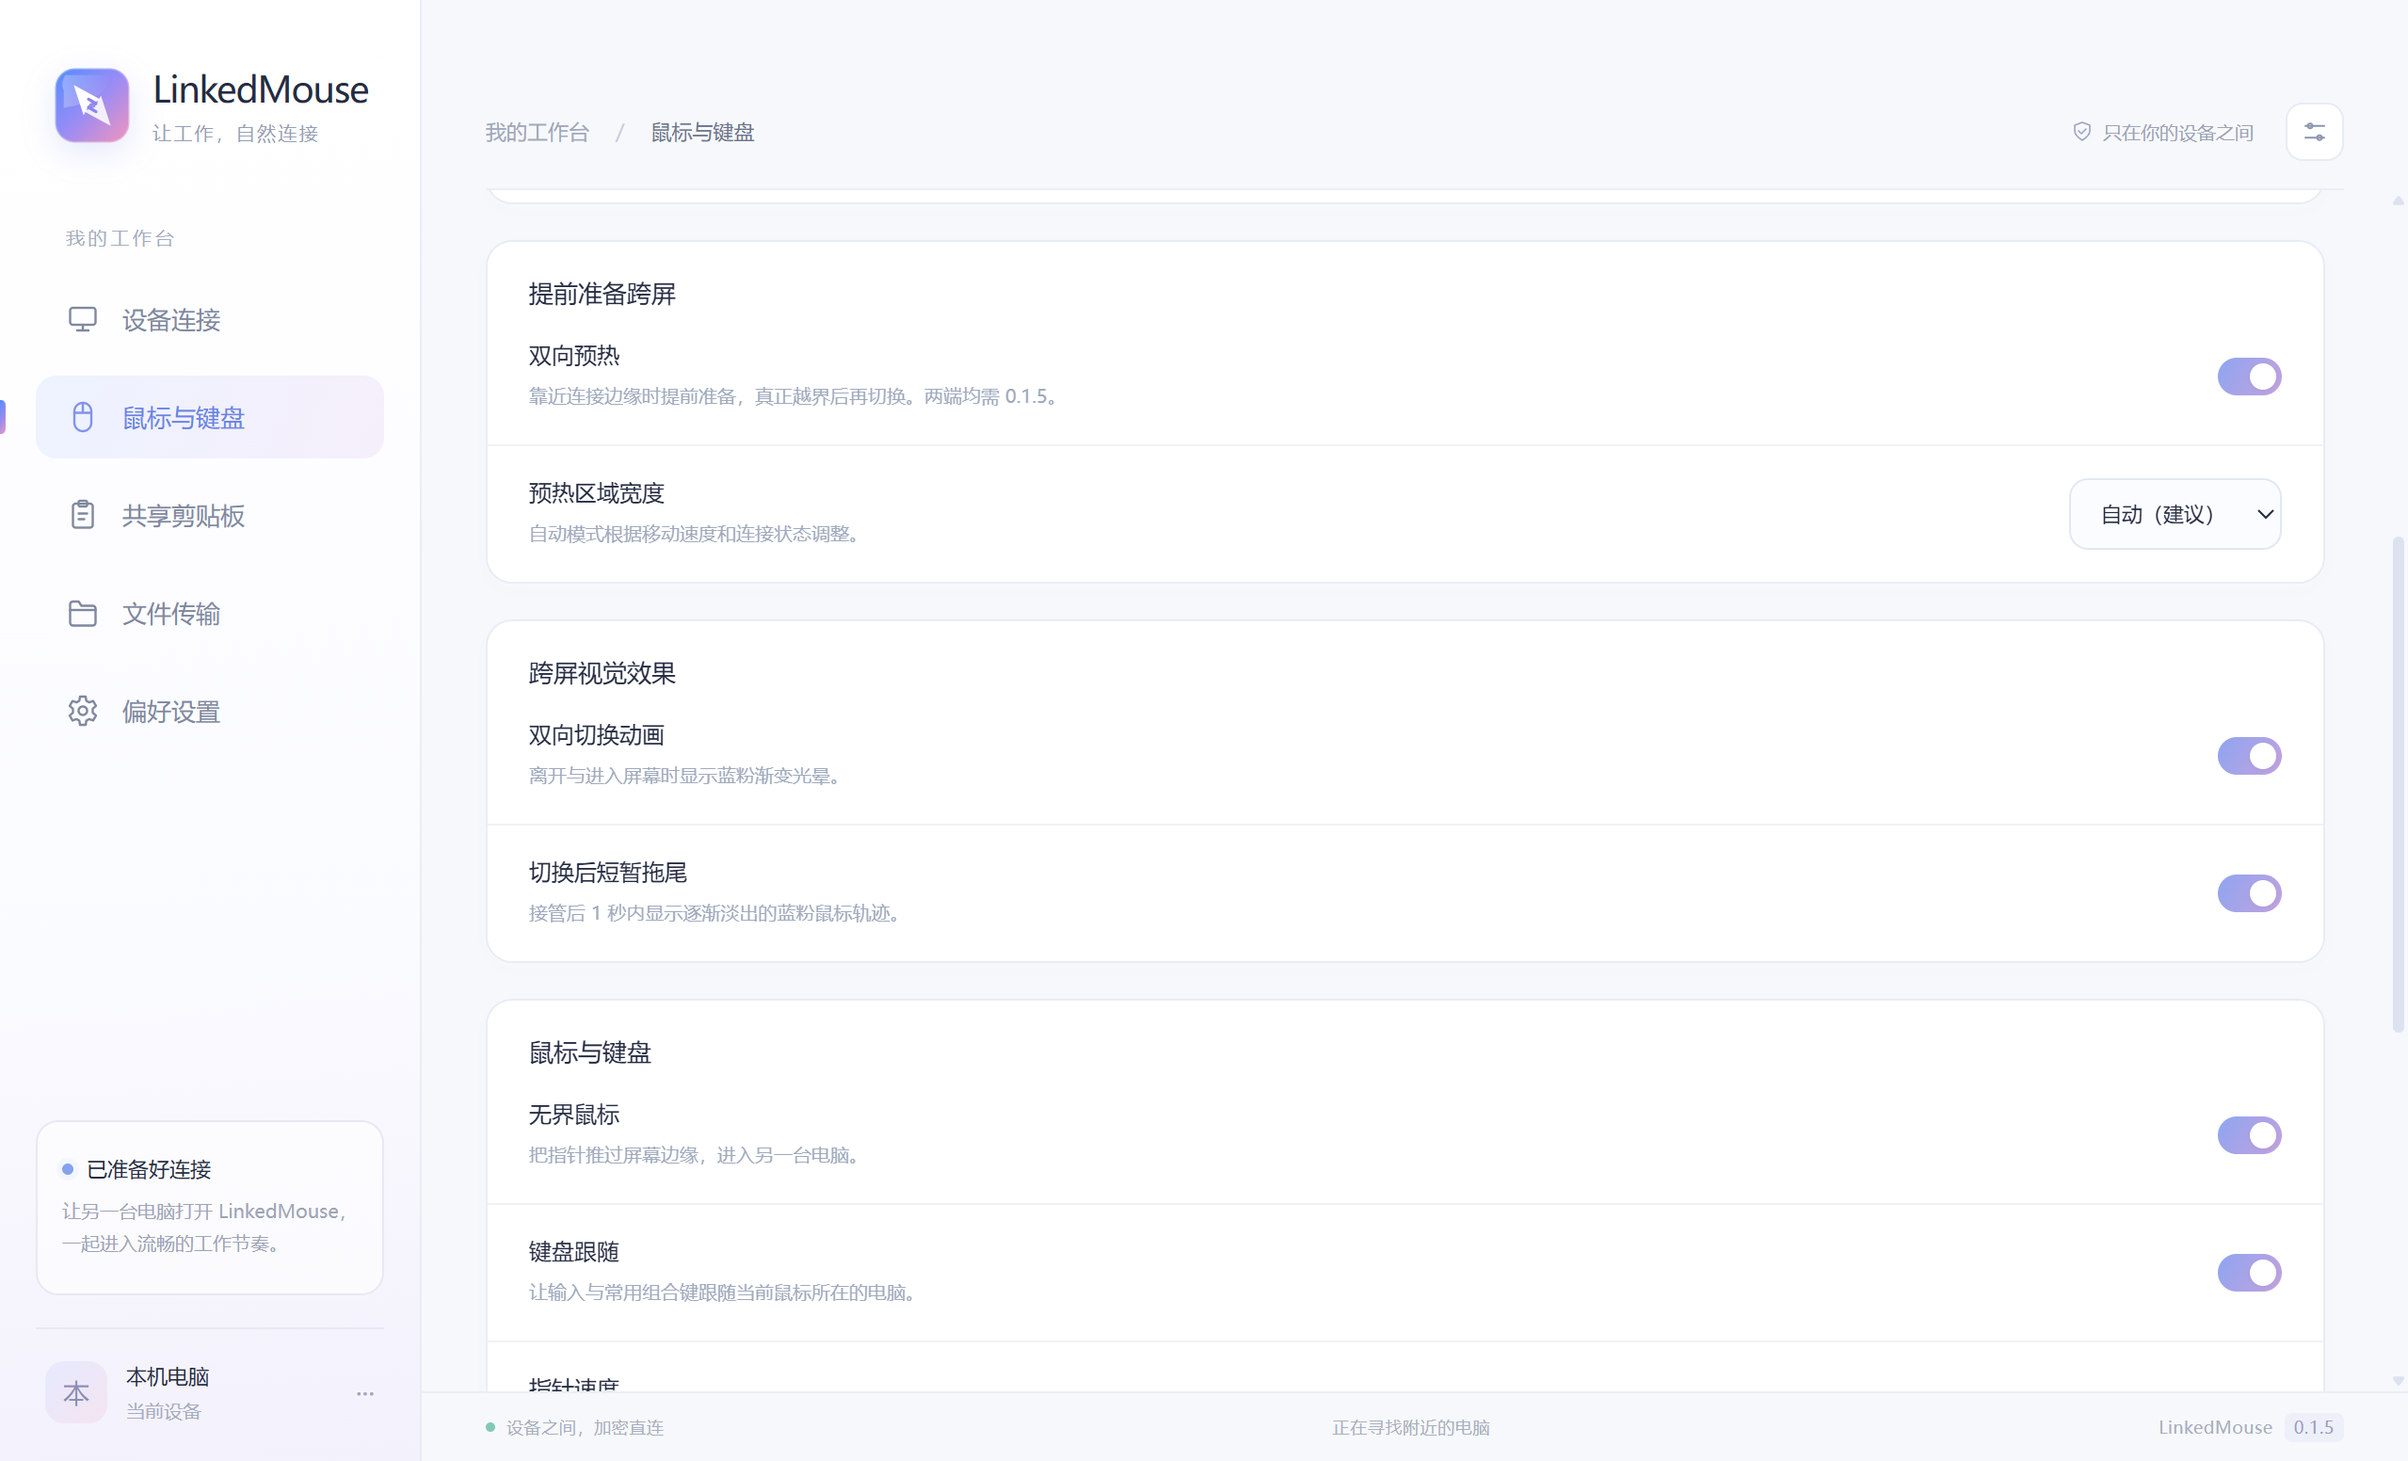
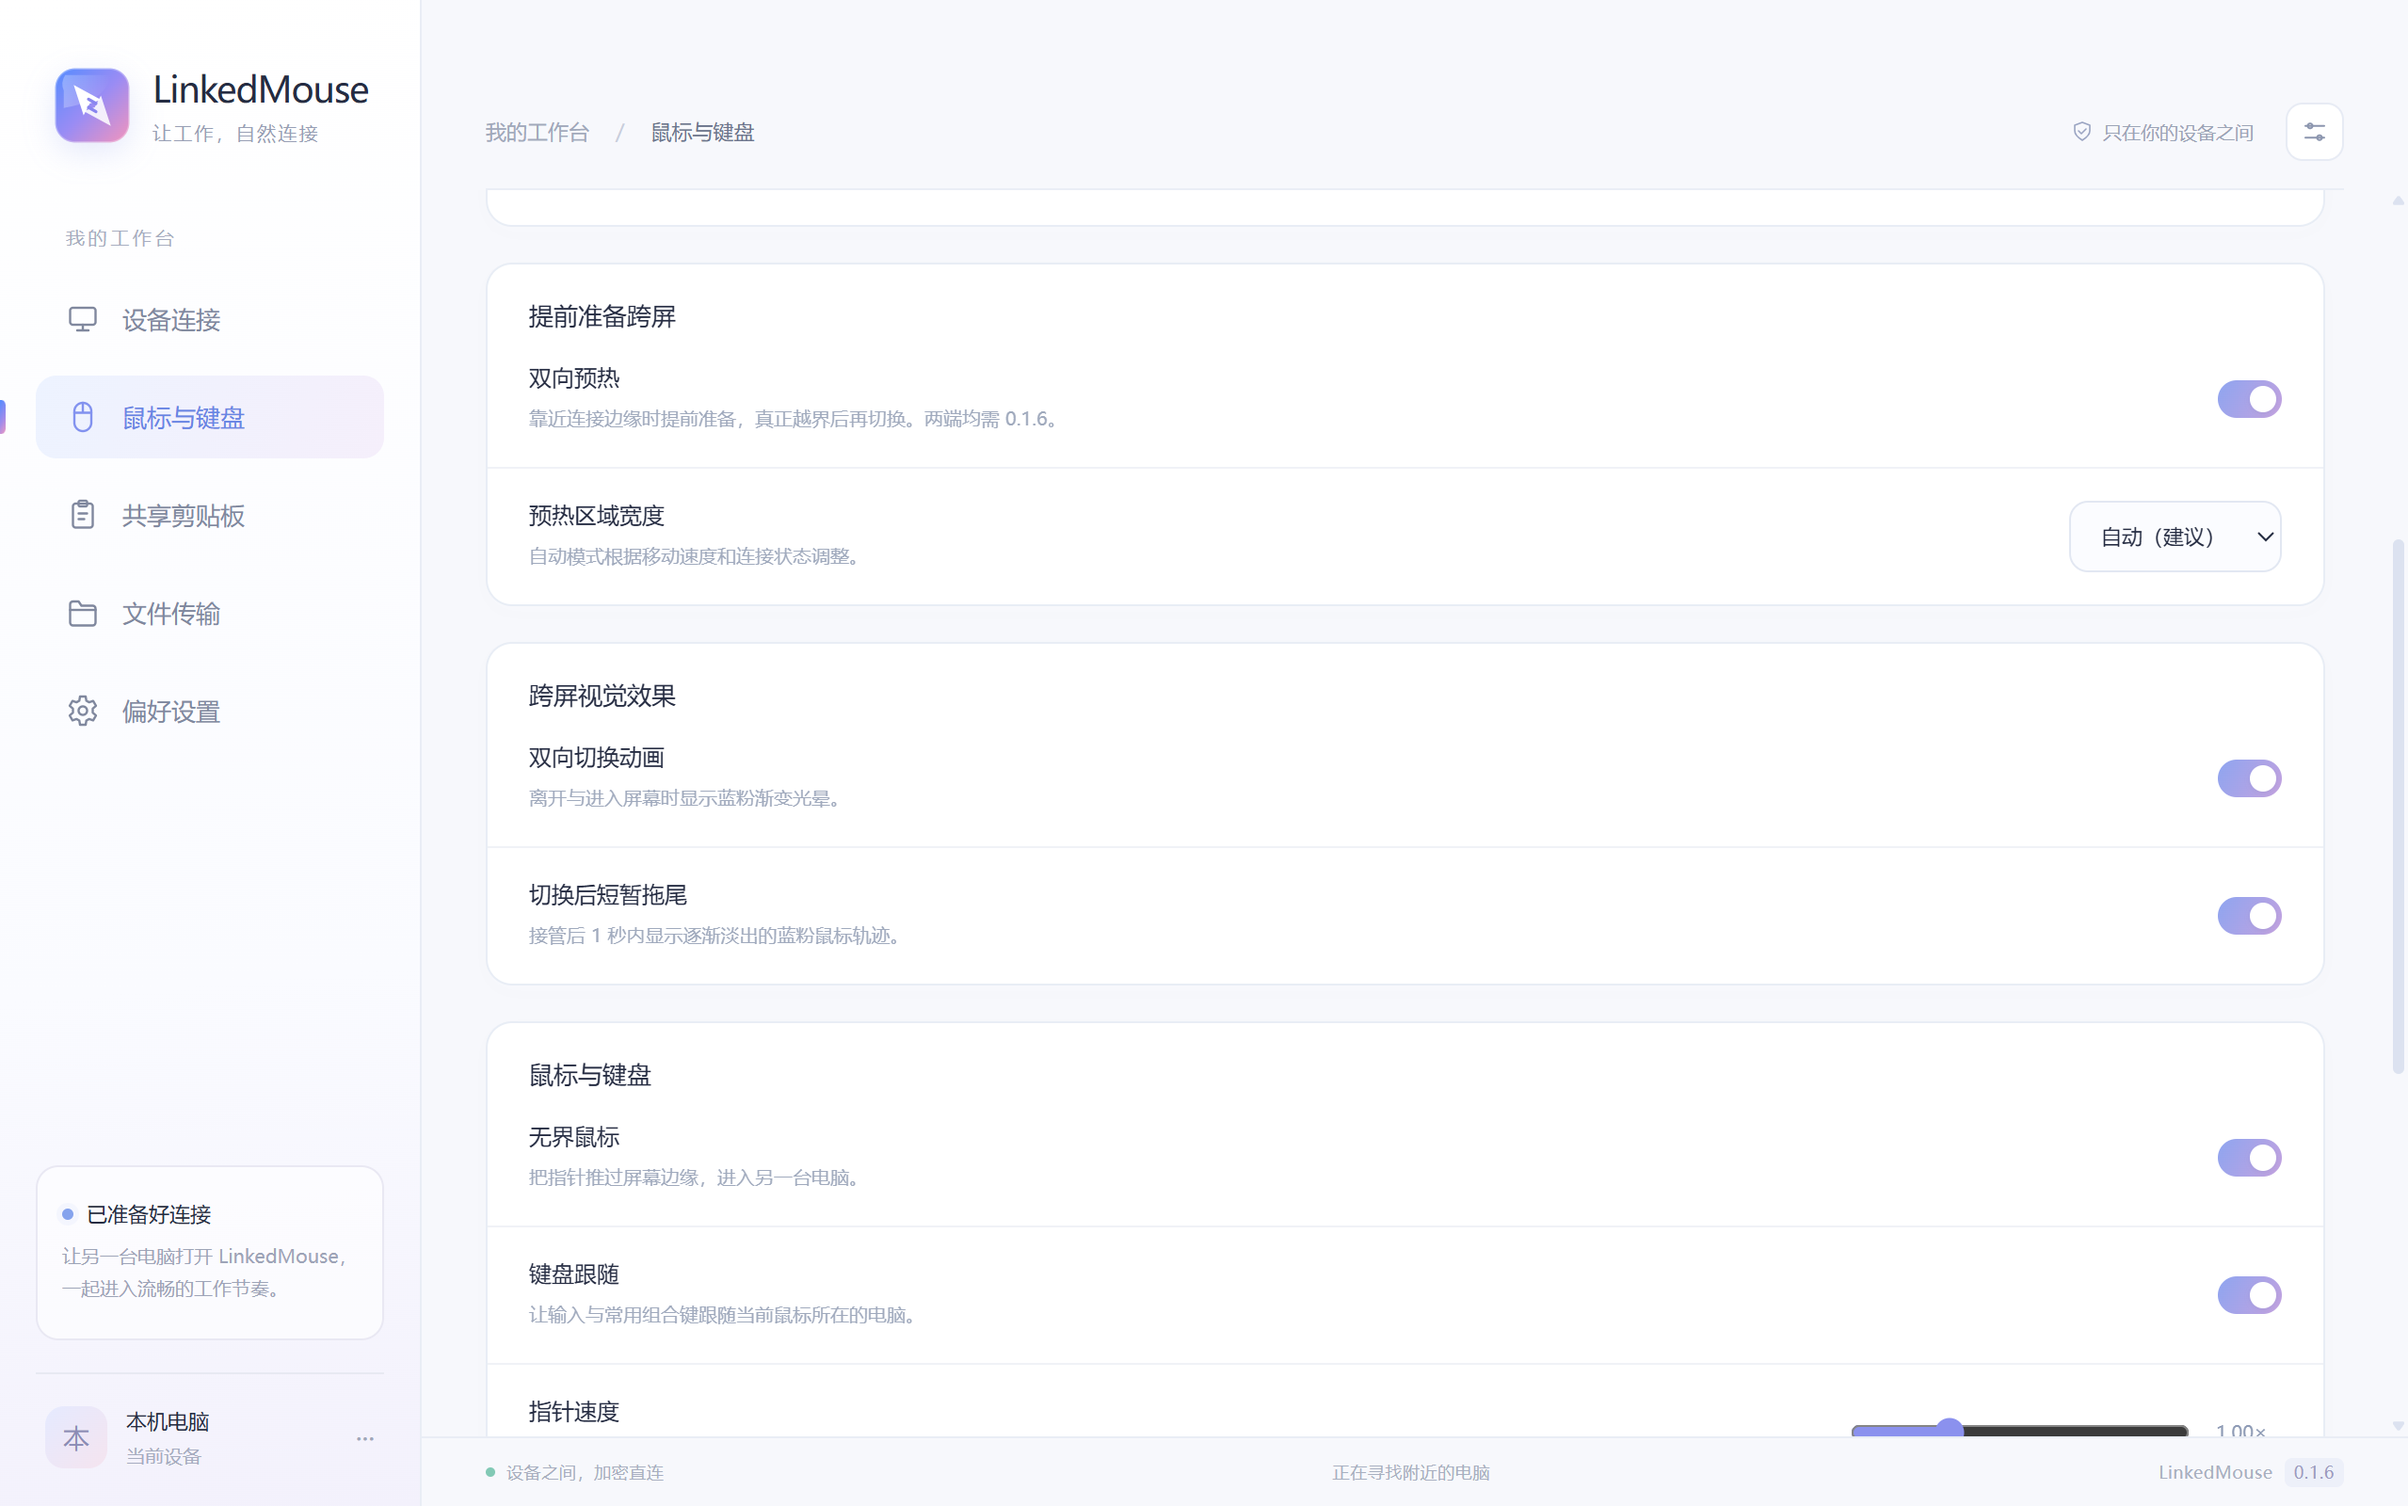
Document v0.1.6 complete cursor hiding across both screens

diff --git a/docs/VALIDATION.md b/docs/VALIDATION.md
@@ -1,4 +1,33 @@
-# 0.1.5 验证记录
+# 0.1.6 光标可见性验证
+
+日期：2026-10-28，单台 Windows 11 x64，实际 DPI 192（200%）。
+
+## 原因与修复
+
+控制器原先在接收端返回时只清理输入注入，没有独立管理该屏幕的空闲光标，留下边缘残影。停放窗口也没有处理自己的 WM_SETCURSOR。实显检查另外复现：后台线程调用 SetCursor(NULL)，Windows 当前显示光标仍可能保持 CURSOR_SHOWING=1，窗口命中已是停放窗口，指针位置保持。
+
+新实现处理停放窗口光标消息，选择透明光标后移除指针，并发送一次带既有 MARK 的零位移 MOVE 刷新系统光标归属；输入钩子和 Raw Input 已忽略该标记。不会引入坐标移动、鼠标按钮或按键。没有使用 AttachThreadInput、ShowCursor 计数循环或窗口激活。
+
+离开接收屏幕后隐藏状态与本次可信控制会话绑定；预热不显示，真实到达或本机实体活动时恢复。连接与策略失效会释放状态，独立采集线程的存活计时也覆盖此状态。
+
+## 已通过
+
+- 51 组核心自检。新增 4 组覆盖原生窗口消息的箭头/手型/文本/尺寸光标、边缘命中、不激活、100 次重复隐藏/释放、停放窗口物理尺寸及销毁释放。
+- 控制器回放覆盖 A 驱动 A→B→A、B 驱动 B→A→B、手动返回、预测返回、旧协议边缘返回、过期包隔离；预热及后台检查保持离开端隐藏，实际到达恢复。
+- 本机物理输入回调恢复光标且不调用位置写入；断线、锁定、鼠标禁用、会话关闭、存活计时到期和退出清理隐藏状态。
+- `--cursor-visibility-test` 的 21 个实际 Windows 场景，三个独立进程均通过。覆盖后台已有空光标状态、32/64/128 像素自定义光标、客户区与四侧非客户区的 WM_SETCURSOR、定期刷新、正常返回和旧消息。以 GetCursorInfo.flags 的 CURSOR_SHOWING 位验证完整隐藏；hCursor 可能保留历史句柄，不能单独用它判断。
+- 每次实际检查的零位移刷新成功 1 次、失败 0 次；位置与前台窗口保持，没有发送点击或按键，没有更改系统光标方案。测试会在现有指针下短暂显示不激活的停放窗口，并隐藏/恢复光标；不截图其他应用。
+- 11 项 Node、8 个真实双进程回环通过；真实 Electron 五页、一次最小化及 20 次关闭到托盘通过，连接/PID/注册及输入与特效线程保持。
+
+显隐检查命令：`native/publish/LinkedMouse.Engine.exe --cursor-visibility-test`。普通 `--self-test` 将光标设置动作隔离，不改变桌面光标。真实测试应在指针保持静止时执行；测试结束恢复原显示状态。
+
+诊断包含 `input.inactiveCursorHidden`、`background.idleCursorHidden/cursorSuppressed/cursorRefreshes/cursorRefreshFailures`。
+
+接口依据：[SetCursor](https://learn.microsoft.com/en-us/windows/win32/api/winuser/nf-winuser-setcursor)、[WM_SETCURSOR](https://learn.microsoft.com/en-us/windows/win32/menurc/wm-setcursor)、[CURSORINFO](https://learn.microsoft.com/en-us/windows/win32/api/winuser/ns-winuser-cursorinfo)。
+
+尚未执行：两台物理电脑的 BLE 进出与实体鼠标首个移动/点击、其他缩放/显示器/显卡组合、长期驻留与 VPN 共存。本机回放与显隐检查不替代这些验收。
+
+## 0.1.5 历史验证
 
 日期：2026-10-28，单台 Windows 11 x64。本版将真实显示合成加入验收，旧版仅验证隐藏窗口不足以排除白块错误。
 

diff --git a/docs/TESTING.md b/docs/TESTING.md
@@ -31,7 +31,17 @@
 
 ## 性能对照
 
-### 0.1.5 透明图层与主机回程
+### 0.1.6 离开端光标完整隐藏
+
+1. 两台电脑均从托盘退出旧版再启动 0.1.6。保持无界鼠标开启，准备深浅色窗口观察相邻边缘。
+2. A 的实体鼠标执行 A→B→A：A 离开时完整隐藏，B 接管时显示；返回 A 后 B 的四个边缘和角落均不能残留箭头的一小截。
+3. 用 B 的实体鼠标执行 B→A→B，交换左右/上下布局；慢速与快速、不同指针尺寸和缩放均检查。
+4. 手动/快捷键返回后检查离开端隐藏；再次进入该端才显示，预热期间不提前出现光标。
+5. 在留在本机但光标已隐藏的一端，分别移动自己的鼠标、点击、滚动或敲键盘；应立即恢复，并核对首次点击/滚动/按键没有丢失，不需要额外点一下。
+6. 隐藏状态下最小化和关闭到托盘，连接与隐藏状态保持；断线、关闭鼠标共享、锁定和完全退出后，光标应恢复，窗口焦点不被停放窗口抢走。
+7. 导出隐藏状态和刷新计数；记录首次可见帧与各方向边缘，特别检查大尺寸/自定义光标。下面的历史场景继续验收。
+
+### 0.1.5 历史：透明图层与主机回程
 
 1. 两端从托盘退出旧版，启动 0.1.5，核对页脚版本。不要只点窗口关闭；旧版 0.1.4 的图层问题仍会存在于未更新端。
 2. 在桌面、深色编辑器、浅色窗口和最大化窗口上跨屏；检查只有蓝粉光晕/光圈/轨迹，没有白色或黑色矩形底，轨迹拉长或收短时旧区域清理。

diff --git a/CHANGELOG.md b/CHANGELOG.md
@@ -1,5 +1,15 @@
 # 更新记录
 
+## 0.1.6 — 2026-10-28
+
+- 修复接收端返回后只停止注入、仍在屏幕最边缘残留光标的问题；增加与控制会话绑定的离开端隐藏状态，覆盖预测、普通边缘及手动/快捷键返回。
+- 停放窗口处理 WM_SETCURSOR，使用透明光标与 SetCursor(NULL) 完整移除指针。一次带自身标记的零位移 MOVE 刷新后台窗口的 Windows 光标归属；不改变坐标、点击或按键，也不改变键盘焦点。
+- 再次进入或首次本机鼠标/键盘活动恢复光标；预热与后台健康检查保持隐藏状态。断线、超时、锁定、关闭鼠标共享和退出释放状态。
+- 新增 4 组回归：窗口消息与重复释放、双向光标归属、预测/旧协议返回、实体输入回调及异常恢复。51 组核心、11 项 Node、8 个双进程回环及真实窗口检查通过。
+- 21 个实际 Windows 显隐场景在 200% 缩放下、三个独立进程重复通过，覆盖 32/64/128 像素自定义光标，位置和前台焦点保持。
+
+两端需退出旧后台后升级至 0.1.6。物理双机 BLE、其他缩放与首次实体点击尚需验收。
+
 ## 0.1.5 — 2026-10-28
 
 - 修复特效显示为白色矩形、拖尾范围变化时白块扩大的问题。使用原生透明窗口和直接预乘 Alpha DIB，去掉旧位图转换与 WinForms 显示/自动缩放路径。

diff --git a/THIRD_PARTY_NOTICES.md b/THIRD_PARTY_NOTICES.md
@@ -26,6 +26,9 @@ its blue/pink painter, one-second trail and separate visual thread are new.
 LinkedMouse 0.1.5 compares the effect against the preserved Flash.cs, restores
 its edge/ring timing in blue/pink, and uses a new native premultiplied-alpha
 DIB surface instead of the previous Form/GetHbitmap path (2026-10-28).
+LinkedMouse 0.1.6 further modifies Capture.cs for inactive receiving-screen cursor
+visibility and first-local-input restoration, and ParkPad.cs for explicit cursor
+suppression, same-position marked mouse-queue refresh and restoration (2026-10-28).
 Ble.cs in that directory is a reference; LinkedMouse's native Bluetooth transport
 adapts its GATT service/characteristic and reliable write approach, with new
 service UUIDs, an in-process stream, cancellation and bounded receive buffers.
